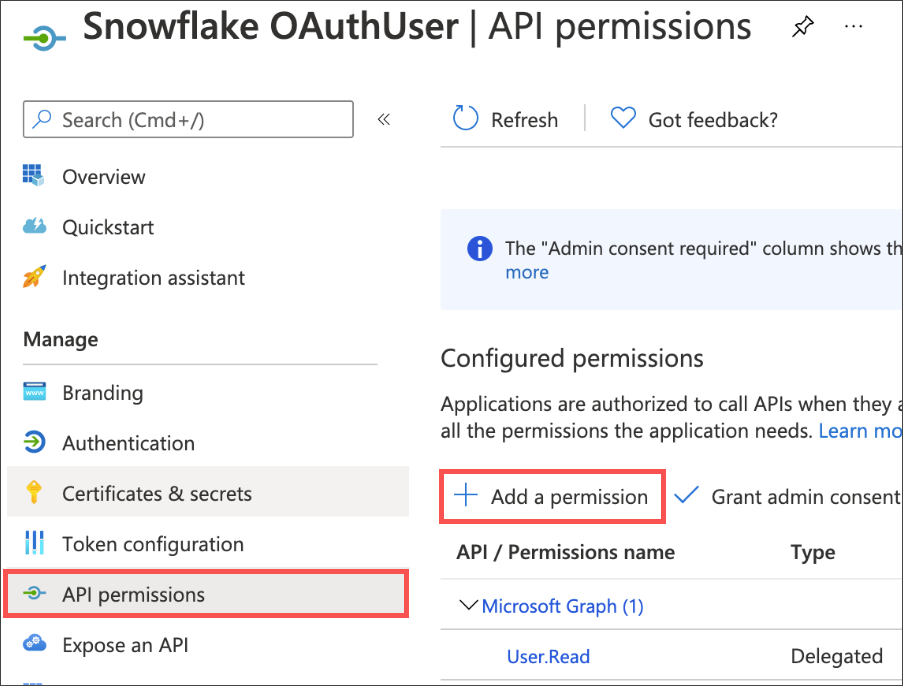
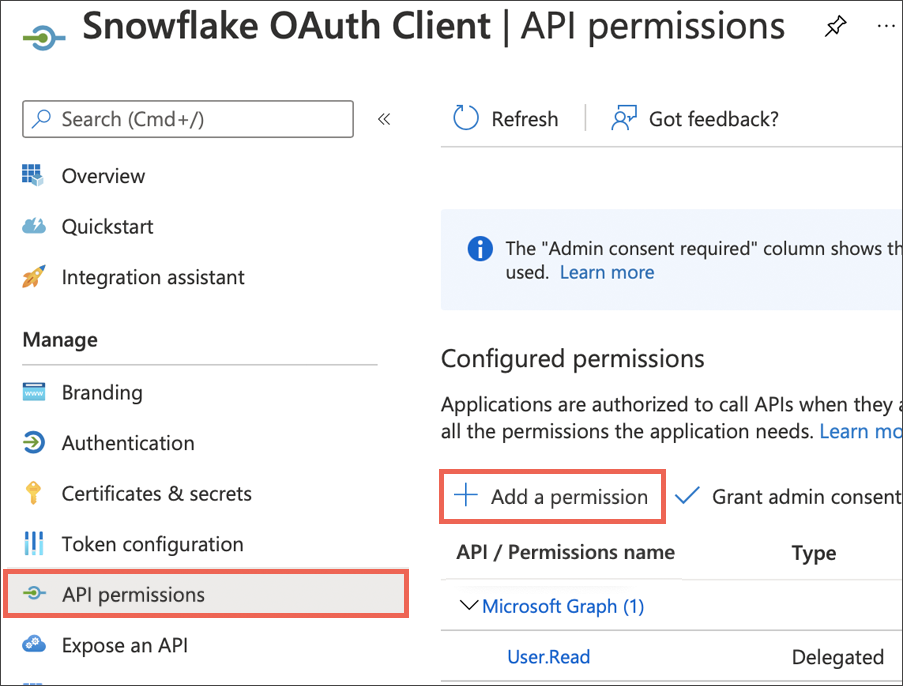
updates per guidance from pradeep

diff --git a/_admin/ts-cloud/ts-cloud-embrace-snowflake-azure-ad-oauth.md b/_admin/ts-cloud/ts-cloud-embrace-snowflake-azure-ad-oauth.md
@@ -65,25 +65,19 @@ To create a Snowflake OAuth client app, do the following:
 
 1. Sign in to the [Microsoft Azure Portal](https://portal.azure.com/){:target="_blank"}, and navigate to **Azure Active Directory**, if needed.
 
-   ![]({{ site.baseurl }}/images/azure-portal-ad-2.png)
-
 2. Click **App registrations**, and then click **New registration**.
 
-   ![]({{ site.baseurl }}/images/azure-portal-reg.png)
-
-3. For Name, enter a name for the client (example: `Snowflake OAuth User`).
+3. For Name, enter a name for the client (example: `Snowflake OAuth Client`).
 
 4. For Supported account types, make sure it is set to **Single tenant**.
 
 5. Click **Register**.
 
-   ![]({{ site.baseurl }}/images/azure-portal-reg-ten-2.png)
-
 6. Once the app is created, click **Overview**.
 
 7. From the Application (client) ID field, copy the ID. This ID is referred to as the `<OAUTH_CLIENT_ID>` in the steps that follow.
 
-   ![]({{ site.baseurl }}/images/snow_app_id.png)
+   ![]({{ site.baseurl }}/images/sf_oauth_client.png)
 
 8. Click **Authentication**.
 
